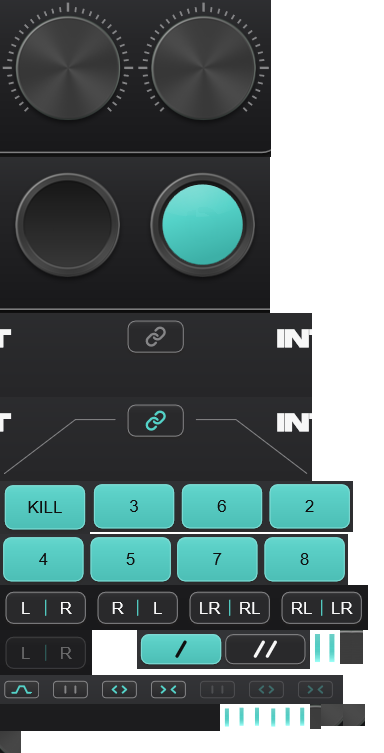
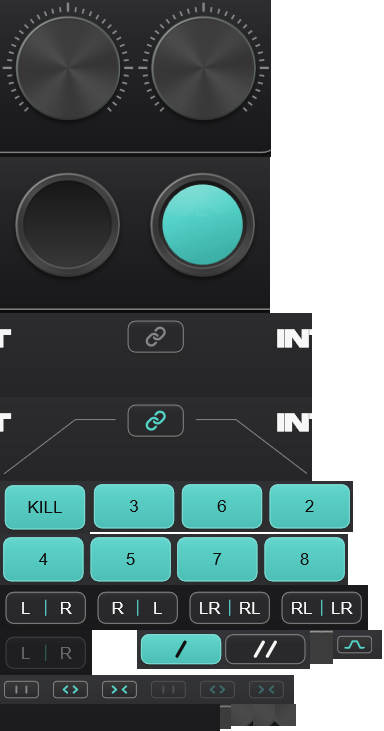
Render StepDelay dial indents with Canvas strokes

diff --git a/StepDelay/assets/native.js b/StepDelay/assets/native.js
@@ -1,1 +1,1 @@
-const nativeData = {"bounds":{"single-mode":[230,53,94,43],"dual-mode":[315,53,93,43],"kill":[744,93,94,57],"link":[415,169,69,45],"filter":[1380,167,36,21],"width-spread":[1019,167,36,21],"start-mode":[182,486,134,45],"interval-mode":[584,486,133,45],"echo-order":[403,486,93,45],"theme":[1507,501,39,45],"cycle-1":[62,93,93,57],"cycle-2":[146,93,93,57],"cycle-3":[230,93,94,57],"cycle-4":[315,93,93,57],"cycle-5":[399,93,93,57],"cycle-6":[483,93,94,57],"cycle-7":[568,93,93,57],"cycle-8":[652,93,93,57],"presets":[399,53,322,43],"previous":[708,53,37,28],"next":[708,68,37,28],"open":[744,53,53,43],"save":[784,53,54,43],"hit-sustain":[890,194,135,131],"value-sustain":[895,321,125,25],"hit-width":[1049,194,136,131],"value-width":[1054,321,126,25],"hit-lowCut":[1250,194,136,131],"value-lowCut":[1255,321,126,25],"hit-highCut":[1410,194,135,131],"value-highCut":[1415,321,125,25],"hit-ducking":[969,401,136,130],"value-ducking":[974,527,126,25],"hit-mix":[1330,401,136,130],"value-mix":[1336,527,125,25],"hit-threshold":[1150,401,135,130],"value-threshold":[1155,527,125,25],"hit-start":[149,264,200,200],"hit-interval":[551,264,199,200],"value-start":[186,452,126,25],"value-interval":[588,452,125,25],"cycle1":[65,96,87,51],"cycle2":[149,96,87,51],"cycle3":[233,96,88,51],"cycle4":[318,96,87,51],"cycle5":[402,96,87,51],"cycle6":[486,96,88,51],"cycle7":[571,96,87,51],"cycle8":[655,96,87,51]},"factory":[{"name":"Init Patch","values":{"ducking":0.0,"firstEchoFollowsTime":1.0,"startMode":0.0,"startMs":500.0,"startNote":3.0,"width":100.0,"lowCut":20,"intervalMode":0.0,"intervalMs":500.0,"intervalNote":3.0,"sustain":50.0,"highCut":20000.0,"cycles":1.0,"refresh":0.0,"order":0.0,"filter":0}},{"name":"Baby's First Delay","values":{"intervalMode":0.0,"startMode":0.0,"firstEchoFollowsTime":0.0,"intervalNote":5.0,"startNote":4.0,"intervalMs":500.0,"startMs":500.0,"cycles":4.0,"sustain":68.0,"ducking":68.0,"width":80.0,"highCut":4800.0,"lowCut":280.0,"refresh":1.0,"order":0.0,"filter":1}},{"name":"Battery Powered","values":{"startMode":3.0,"startNote":4.0,"startMs":20.00002861022949,"intervalMode":3.0,"intervalNote":4.0,"intervalMs":20.00002861022949,"cycles":8,"sustain":88.00001525878906,"filter":0.0,"lowCut":20,"highCut":20000.0,"refresh":0.0,"ducking":20.4000244140625,"width":100.0,"order":0.0,"firstEchoFollowsTime":1.0}},{"name":"Bounce 'em","values":{"intervalMode":2.0,"startMode":2.0,"firstEchoFollowsTime":0.0,"intervalNote":4.0,"startNote":3.0,"intervalMs":500.0,"startMs":500.0,"cycles":8,"sustain":68.0,"ducking":50.0,"width":100.0,"highCut":4800.0,"lowCut":280.0,"refresh":1.0,"order":0.0,"filter":1}},{"name":"Branded","values":{"startMode":0.0,"startNote":3.0,"startMs":500.0001220703125,"intervalMode":2.0,"intervalNote":3.0,"intervalMs":200.0002746582031,"cycles":1.0,"sustain":0.0,"filter":0.0,"lowCut":20,"highCut":20000.0,"refresh":1.0,"ducking":28.00002098083496,"width":100.0,"order":0.0,"firstEchoFollowsTime":0.0}},{"name":"Fake Stereo","values":{"startMode":3.0,"startNote":4.0,"startMs":20.00002861022949,"intervalMode":3.0,"intervalNote":0.0,"intervalMs":40.0001220703125,"cycles":1.0,"sustain":100.0,"filter":0.0,"lowCut":20,"highCut":20000.0,"refresh":0.0,"ducking":0.0,"width":100.0,"order":0.0,"firstEchoFollowsTime":0.0}},{"name":"Fill It Up","values":{"startMode":0.0,"startNote":4.0,"startMs":500.0001220703125,"intervalMode":0.0,"intervalNote":5.0,"intervalMs":500.0001220703125,"cycles":4.0,"sustain":80.00001525878906,"filter":1.0,"lowCut":280.0000305175781,"highCut":4000.0,"refresh":1.0,"ducking":60.00001525878906,"width":80.0,"order":1.0,"firstEchoFollowsTime":1.0}},{"name":"Remember to Kill","values":{"startMode":0.0,"startNote":6.0,"startMs":500.0003356933594,"intervalMode":3.0,"intervalNote":4.0,"intervalMs":5000.0,"cycles":1.0,"sustain":100.0,"filter":0.0,"lowCut":20,"highCut":20000.0,"refresh":0.0,"ducking":0.0,"width":0.0,"order":0.0,"firstEchoFollowsTime":0.0}},{"name":"Short and Clean","values":{"startMode":0.0,"startNote":4.0,"startMs":500.0001220703125,"intervalMode":0.0,"intervalNote":4.0,"intervalMs":500.0001220703125,"cycles":2.0,"sustain":80.00001525878906,"filter":1.0,"lowCut":1000.000061035156,"highCut":2800.0,"refresh":1.0,"ducking":80.00001525878906,"width":100.0,"order":0.0,"firstEchoFollowsTime":1.0}},{"name":"Valor's Finest","values":{"startMode":0.0,"startNote":4.0,"startMs":500.0001220703125,"intervalMode":0.0,"intervalNote":4.0,"intervalMs":500.0001220703125,"cycles":4.0,"sustain":60.00001525878906,"filter":1.0,"lowCut":200.0001220703125,"highCut":4000.0,"refresh":1.0,"ducking":80.00001525878906,"width":80.0,"order":0.0,"firstEchoFollowsTime":1.0}}],"layers":{"light":{"lowCutPlate":[0,0,136,157,1250,194],"highCutPlate":[136,0,135,157,1410,194],"threshold0":[271,0,135,156,1150,401],"threshold24":[406,0,135,156,1150,401],"link0":[0,157,312,84,294,168],"link1":[312,157,312,84,294,168],"killOn":[0,241,90,53,746,95],"cycle3":[90,241,88,51,233,96],"cycle6":[178,241,88,51,486,96],"cycle2":[266,241,87,51,149,96],"cycle4":[353,241,87,51,318,96],"cycle5":[440,241,87,51,402,96],"cycle7":[527,241,87,51,571,96],"cycle8":[0,294,87,51,655,96],"order0":[87,294,92,45,404,486],"order1":[179,294,92,45,404,486],"order2":[271,294,92,45,404,486],"order3":[363,294,92,45,404,486],"orderDisabled":[455,294,92,45,404,486],"refreshArrow":[547,294,45,45,-22,-22],"single":[0,345,173,39,233,55],"intervalMarker":[173,345,15,34,-7,-82],"startMarker":[188,345,15,34,-7,-82],"startPlate":[203,345,12,34,243,283],"intervalPlate":[215,345,11,34,645,283],"filterOn":[226,345,49,29,1376,163],"spread0":[275,345,49,29,1016,163],"spread1":[324,345,49,29,1016,163],"spread2":[373,345,49,29,1016,163],"spreadDisabled0":[422,345,49,29,1016,163],"spreadDisabled1":[471,345,49,29,1016,163],"spreadDisabled2":[520,345,49,29,1016,163],"intervalMsBackground":[0,384,110,27,595,450],"startMsBackground":[110,384,110,27,194,450],"duckingMarker":[220,384,15,26,-7,-53],"highCutMarker":[235,384,15,26,-7,-53],"lowCutMarker":[250,384,15,26,-7,-53],"mixMarker":[265,384,15,26,-7,-53],"sustainMarker":[280,384,15,26,-7,-53],"widthMarker":[295,384,15,26,-7,-53],"sustainPlate":[310,384,11,25,952,209],"widthPlate":[321,384,22,22,1135,279],"duckingPlate":[343,384,21,22,998,486],"mixPlate":[364,384,21,22,1416,486]},"dark":{"lowCutPlate":[0,0,136,157,1250,194],"highCutPlate":[136,0,135,157,1410,194],"threshold0":[0,157,135,156,1150,401],"threshold24":[135,157,135,156,1150,401],"link0":[0,313,312,84,294,168],"link1":[0,397,312,84,294,168],"killOn":[0,481,90,53,746,95],"cycle3":[90,481,88,51,233,96],"cycle6":[178,481,88,51,486,96],"cycle2":[266,481,87,51,149,96],"cycle4":[0,534,87,51,318,96],"cycle5":[87,534,87,51,402,96],"cycle7":[174,534,87,51,571,96],"cycle8":[261,534,87,51,655,96],"order0":[0,585,92,45,404,486],"order1":[92,585,92,45,404,486],"order2":[184,585,92,45,404,486],"order3":[276,585,92,45,404,486],"orderDisabled":[0,630,92,45,404,486],"refreshArrow":[92,630,45,45,-22,-22],"single":[137,630,173,39,233,55],"intervalMarker":[310,630,15,34,-7,-82],"startMarker":[325,630,15,34,-7,-82],"startPlate":[340,630,12,34,243,283],"intervalPlate":[352,630,11,34,645,283],"filterOn":[0,675,49,29,1376,163],"spread0":[49,675,49,29,1016,163],"spread1":[98,675,49,29,1016,163],"spread2":[147,675,49,29,1016,163],"spreadDisabled0":[196,675,49,29,1016,163],"spreadDisabled1":[245,675,49,29,1016,163],"spreadDisabled2":[294,675,49,29,1016,163],"intervalMsBackground":[0,704,110,27,595,450],"startMsBackground":[110,704,110,27,194,450],"duckingMarker":[220,704,15,26,-7,-53],"highCutMarker":[235,704,15,26,-7,-53],"lowCutMarker":[250,704,15,26,-7,-53],"mixMarker":[265,704,15,26,-7,-53],"sustainMarker":[280,704,15,26,-7,-53],"widthMarker":[295,704,15,26,-7,-53],"sustainPlate":[310,704,11,25,952,209],"mixPlate":[321,704,22,22,1416,486],"widthPlate":[343,704,22,22,1135,279],"duckingPlate":[0,731,21,22,998,486]}},"refreshRotation":{"light":53,"dark":53}};
+const nativeData = {"bounds":{"single-mode":[230,53,94,43],"dual-mode":[315,53,93,43],"kill":[744,93,94,57],"link":[415,169,69,45],"filter":[1380,167,36,21],"width-spread":[1019,167,36,21],"start-mode":[182,486,134,45],"interval-mode":[584,486,133,45],"echo-order":[403,486,93,45],"theme":[1507,501,39,45],"cycle-1":[62,93,93,57],"cycle-2":[146,93,93,57],"cycle-3":[230,93,94,57],"cycle-4":[315,93,93,57],"cycle-5":[399,93,93,57],"cycle-6":[483,93,94,57],"cycle-7":[568,93,93,57],"cycle-8":[652,93,93,57],"presets":[399,53,322,43],"previous":[708,53,37,28],"next":[708,68,37,28],"open":[744,53,53,43],"save":[784,53,54,43],"hit-sustain":[890,194,135,131],"value-sustain":[895,321,125,25],"hit-width":[1049,194,136,131],"value-width":[1054,321,126,25],"hit-lowCut":[1250,194,136,131],"value-lowCut":[1255,321,126,25],"hit-highCut":[1410,194,135,131],"value-highCut":[1415,321,125,25],"hit-ducking":[969,401,136,130],"value-ducking":[974,527,126,25],"hit-mix":[1330,401,136,130],"value-mix":[1336,527,125,25],"hit-threshold":[1150,401,135,130],"value-threshold":[1155,527,125,25],"hit-start":[149,264,200,200],"hit-interval":[551,264,199,200],"value-start":[186,452,126,25],"value-interval":[588,452,125,25],"cycle1":[65,96,87,51],"cycle2":[149,96,87,51],"cycle3":[233,96,88,51],"cycle4":[318,96,87,51],"cycle5":[402,96,87,51],"cycle6":[486,96,88,51],"cycle7":[571,96,87,51],"cycle8":[655,96,87,51]},"factory":[{"name":"Init Patch","values":{"ducking":0.0,"firstEchoFollowsTime":1.0,"startMode":0.0,"startMs":500.0,"startNote":3.0,"width":100.0,"lowCut":20,"intervalMode":0.0,"intervalMs":500.0,"intervalNote":3.0,"sustain":50.0,"highCut":20000.0,"cycles":1.0,"refresh":0.0,"order":0.0,"filter":0}},{"name":"Baby's First Delay","values":{"intervalMode":0.0,"startMode":0.0,"firstEchoFollowsTime":0.0,"intervalNote":5.0,"startNote":4.0,"intervalMs":500.0,"startMs":500.0,"cycles":4.0,"sustain":68.0,"ducking":68.0,"width":80.0,"highCut":4800.0,"lowCut":280.0,"refresh":1.0,"order":0.0,"filter":1}},{"name":"Battery Powered","values":{"startMode":3.0,"startNote":4.0,"startMs":20.00002861022949,"intervalMode":3.0,"intervalNote":4.0,"intervalMs":20.00002861022949,"cycles":8,"sustain":88.00001525878906,"filter":0.0,"lowCut":20,"highCut":20000.0,"refresh":0.0,"ducking":20.4000244140625,"width":100.0,"order":0.0,"firstEchoFollowsTime":1.0}},{"name":"Bounce 'em","values":{"intervalMode":2.0,"startMode":2.0,"firstEchoFollowsTime":0.0,"intervalNote":4.0,"startNote":3.0,"intervalMs":500.0,"startMs":500.0,"cycles":8,"sustain":68.0,"ducking":50.0,"width":100.0,"highCut":4800.0,"lowCut":280.0,"refresh":1.0,"order":0.0,"filter":1}},{"name":"Branded","values":{"startMode":0.0,"startNote":3.0,"startMs":500.0001220703125,"intervalMode":2.0,"intervalNote":3.0,"intervalMs":200.0002746582031,"cycles":1.0,"sustain":0.0,"filter":0.0,"lowCut":20,"highCut":20000.0,"refresh":1.0,"ducking":28.00002098083496,"width":100.0,"order":0.0,"firstEchoFollowsTime":0.0}},{"name":"Fake Stereo","values":{"startMode":3.0,"startNote":4.0,"startMs":20.00002861022949,"intervalMode":3.0,"intervalNote":0.0,"intervalMs":40.0001220703125,"cycles":1.0,"sustain":100.0,"filter":0.0,"lowCut":20,"highCut":20000.0,"refresh":0.0,"ducking":0.0,"width":100.0,"order":0.0,"firstEchoFollowsTime":0.0}},{"name":"Fill It Up","values":{"startMode":0.0,"startNote":4.0,"startMs":500.0001220703125,"intervalMode":0.0,"intervalNote":5.0,"intervalMs":500.0001220703125,"cycles":4.0,"sustain":80.00001525878906,"filter":1.0,"lowCut":280.0000305175781,"highCut":4000.0,"refresh":1.0,"ducking":60.00001525878906,"width":80.0,"order":1.0,"firstEchoFollowsTime":1.0}},{"name":"Remember to Kill","values":{"startMode":0.0,"startNote":6.0,"startMs":500.0003356933594,"intervalMode":3.0,"intervalNote":4.0,"intervalMs":5000.0,"cycles":1.0,"sustain":100.0,"filter":0.0,"lowCut":20,"highCut":20000.0,"refresh":0.0,"ducking":0.0,"width":0.0,"order":0.0,"firstEchoFollowsTime":0.0}},{"name":"Short and Clean","values":{"startMode":0.0,"startNote":4.0,"startMs":500.0001220703125,"intervalMode":0.0,"intervalNote":4.0,"intervalMs":500.0001220703125,"cycles":2.0,"sustain":80.00001525878906,"filter":1.0,"lowCut":1000.000061035156,"highCut":2800.0,"refresh":1.0,"ducking":80.00001525878906,"width":100.0,"order":0.0,"firstEchoFollowsTime":1.0}},{"name":"Valor's Finest","values":{"startMode":0.0,"startNote":4.0,"startMs":500.0001220703125,"intervalMode":0.0,"intervalNote":4.0,"intervalMs":500.0001220703125,"cycles":4.0,"sustain":60.00001525878906,"filter":1.0,"lowCut":200.0001220703125,"highCut":4000.0,"refresh":1.0,"ducking":80.00001525878906,"width":80.0,"order":0.0,"firstEchoFollowsTime":1.0}}],"layers":{"light":{"lowCutPlate":[0,0,136,157,1250,194],"highCutPlate":[136,0,135,157,1410,194],"threshold0":[271,0,135,156,1150,401],"threshold24":[406,0,135,156,1150,401],"link0":[0,157,312,84,294,168],"link1":[312,157,312,84,294,168],"killOn":[624,157,90,53,746,95],"cycle3":[0,241,88,51,233,96],"cycle6":[88,241,88,51,486,96],"cycle2":[176,241,87,51,149,96],"cycle4":[263,241,87,51,318,96],"cycle5":[350,241,87,51,402,96],"cycle7":[437,241,87,51,571,96],"cycle8":[524,241,87,51,655,96],"order0":[611,241,92,45,404,486],"order1":[0,292,92,45,404,486],"order2":[92,292,92,45,404,486],"order3":[184,292,92,45,404,486],"orderDisabled":[276,292,92,45,404,486],"refreshArrow":[368,292,45,45,-22,-22],"single":[413,292,173,39,233,55],"startPlate":[586,292,12,34,243,283],"intervalPlate":[598,292,11,34,645,283],"filterOn":[609,292,49,29,1376,163],"spread0":[658,292,49,29,1016,163],"spread1":[707,292,49,29,1016,163],"spread2":[0,337,49,29,1016,163],"spreadDisabled0":[49,337,49,29,1016,163],"spreadDisabled1":[98,337,49,29,1016,163],"spreadDisabled2":[147,337,49,29,1016,163],"intervalMsBackground":[196,337,110,27,595,450],"startMsBackground":[306,337,110,27,194,450],"sustainPlate":[416,337,11,25,952,209],"widthPlate":[427,337,22,22,1135,279],"duckingPlate":[449,337,21,22,998,486],"mixPlate":[470,337,21,22,1416,486]},"dark":{"lowCutPlate":[0,0,136,157,1250,194],"highCutPlate":[136,0,135,157,1410,194],"threshold0":[0,157,135,156,1150,401],"threshold24":[135,157,135,156,1150,401],"link0":[0,313,312,84,294,168],"link1":[0,397,312,84,294,168],"killOn":[0,481,90,53,746,95],"cycle3":[90,481,88,51,233,96],"cycle6":[178,481,88,51,486,96],"cycle2":[266,481,87,51,149,96],"cycle4":[0,534,87,51,318,96],"cycle5":[87,534,87,51,402,96],"cycle7":[174,534,87,51,571,96],"cycle8":[261,534,87,51,655,96],"order0":[0,585,92,45,404,486],"order1":[92,585,92,45,404,486],"order2":[184,585,92,45,404,486],"order3":[276,585,92,45,404,486],"orderDisabled":[0,630,92,45,404,486],"refreshArrow":[92,630,45,45,-22,-22],"single":[137,630,173,39,233,55],"startPlate":[310,630,12,34,243,283],"intervalPlate":[322,630,11,34,645,283],"filterOn":[333,630,49,29,1376,163],"spread0":[0,675,49,29,1016,163],"spread1":[49,675,49,29,1016,163],"spread2":[98,675,49,29,1016,163],"spreadDisabled0":[147,675,49,29,1016,163],"spreadDisabled1":[196,675,49,29,1016,163],"spreadDisabled2":[245,675,49,29,1016,163],"intervalMsBackground":[0,704,110,27,595,450],"startMsBackground":[110,704,110,27,194,450],"sustainPlate":[220,704,11,25,952,209],"mixPlate":[231,704,22,22,1416,486],"widthPlate":[253,704,22,22,1135,279],"duckingPlate":[275,704,21,22,998,486]}},"refreshRotation":{"light":53,"dark":53}};

diff --git a/StepDelay/demo.js b/StepDelay/demo.js
@@ -101,7 +101,7 @@ function format(id, value) {
   return Math.round(value) + "%";
 }
 
-// Draw a native layer or rotate just the transparent indent, never the dial body.
+// Draw the indent over the native dial face, leaving the face stationary.
 const dialCenters = { start: [249,364], interval: [650,364], sustain: [957,262],
   width: [1117,262], lowCut: [1318,262], highCut: [1478,262], ducking: [1037,468], mix: [1397,468] };
 function patch(set, name) {
@@ -114,7 +114,16 @@ function drawDial(set, id, unit) {
   context.save();
   context.translate(cx, cy);
   context.rotate((unit - .5) * Math.PI * 1.5);
-  patch(set, id + "Marker");
+  const large = id === "start" || id === "interval";
+  const lowerRow = id === "ducking" || id === "mix";
+  const outerRadius = large ? 78 : lowerRow ? 48 : 49;
+  const innerRadius = large ? 50 : lowerRow ? 31 : 32;
+  context.strokeStyle = dark ? colorDefault : "#326a64";
+  context.lineWidth = large ? 4 : 3;
+  context.beginPath();
+  context.moveTo(0, -outerRadius);
+  context.lineTo(0, -innerRadius);
+  context.stroke();
   context.restore();
 }
 function drawTiming(set, side, mode, value) {
@@ -213,8 +222,7 @@ function render() {
     const filterDisabled = (id === "lowCut" || id === "highCut") && !state.filter;
     if (id === "threshold") {
       if (state.refresh) drawRefresh(set);
-    } else if (!filterDisabled &&
-        (id === "lowCut" || id === "highCut" || state[id] !== defaults[id] || (id === "width" && spreadOn()))) {
+    } else if (!filterDisabled) {
       drawDial(set, id, valueToUnit(id, state[id]));
     }
     const x = id === "threshold" ? 1217 : dialCenters[id][0];
